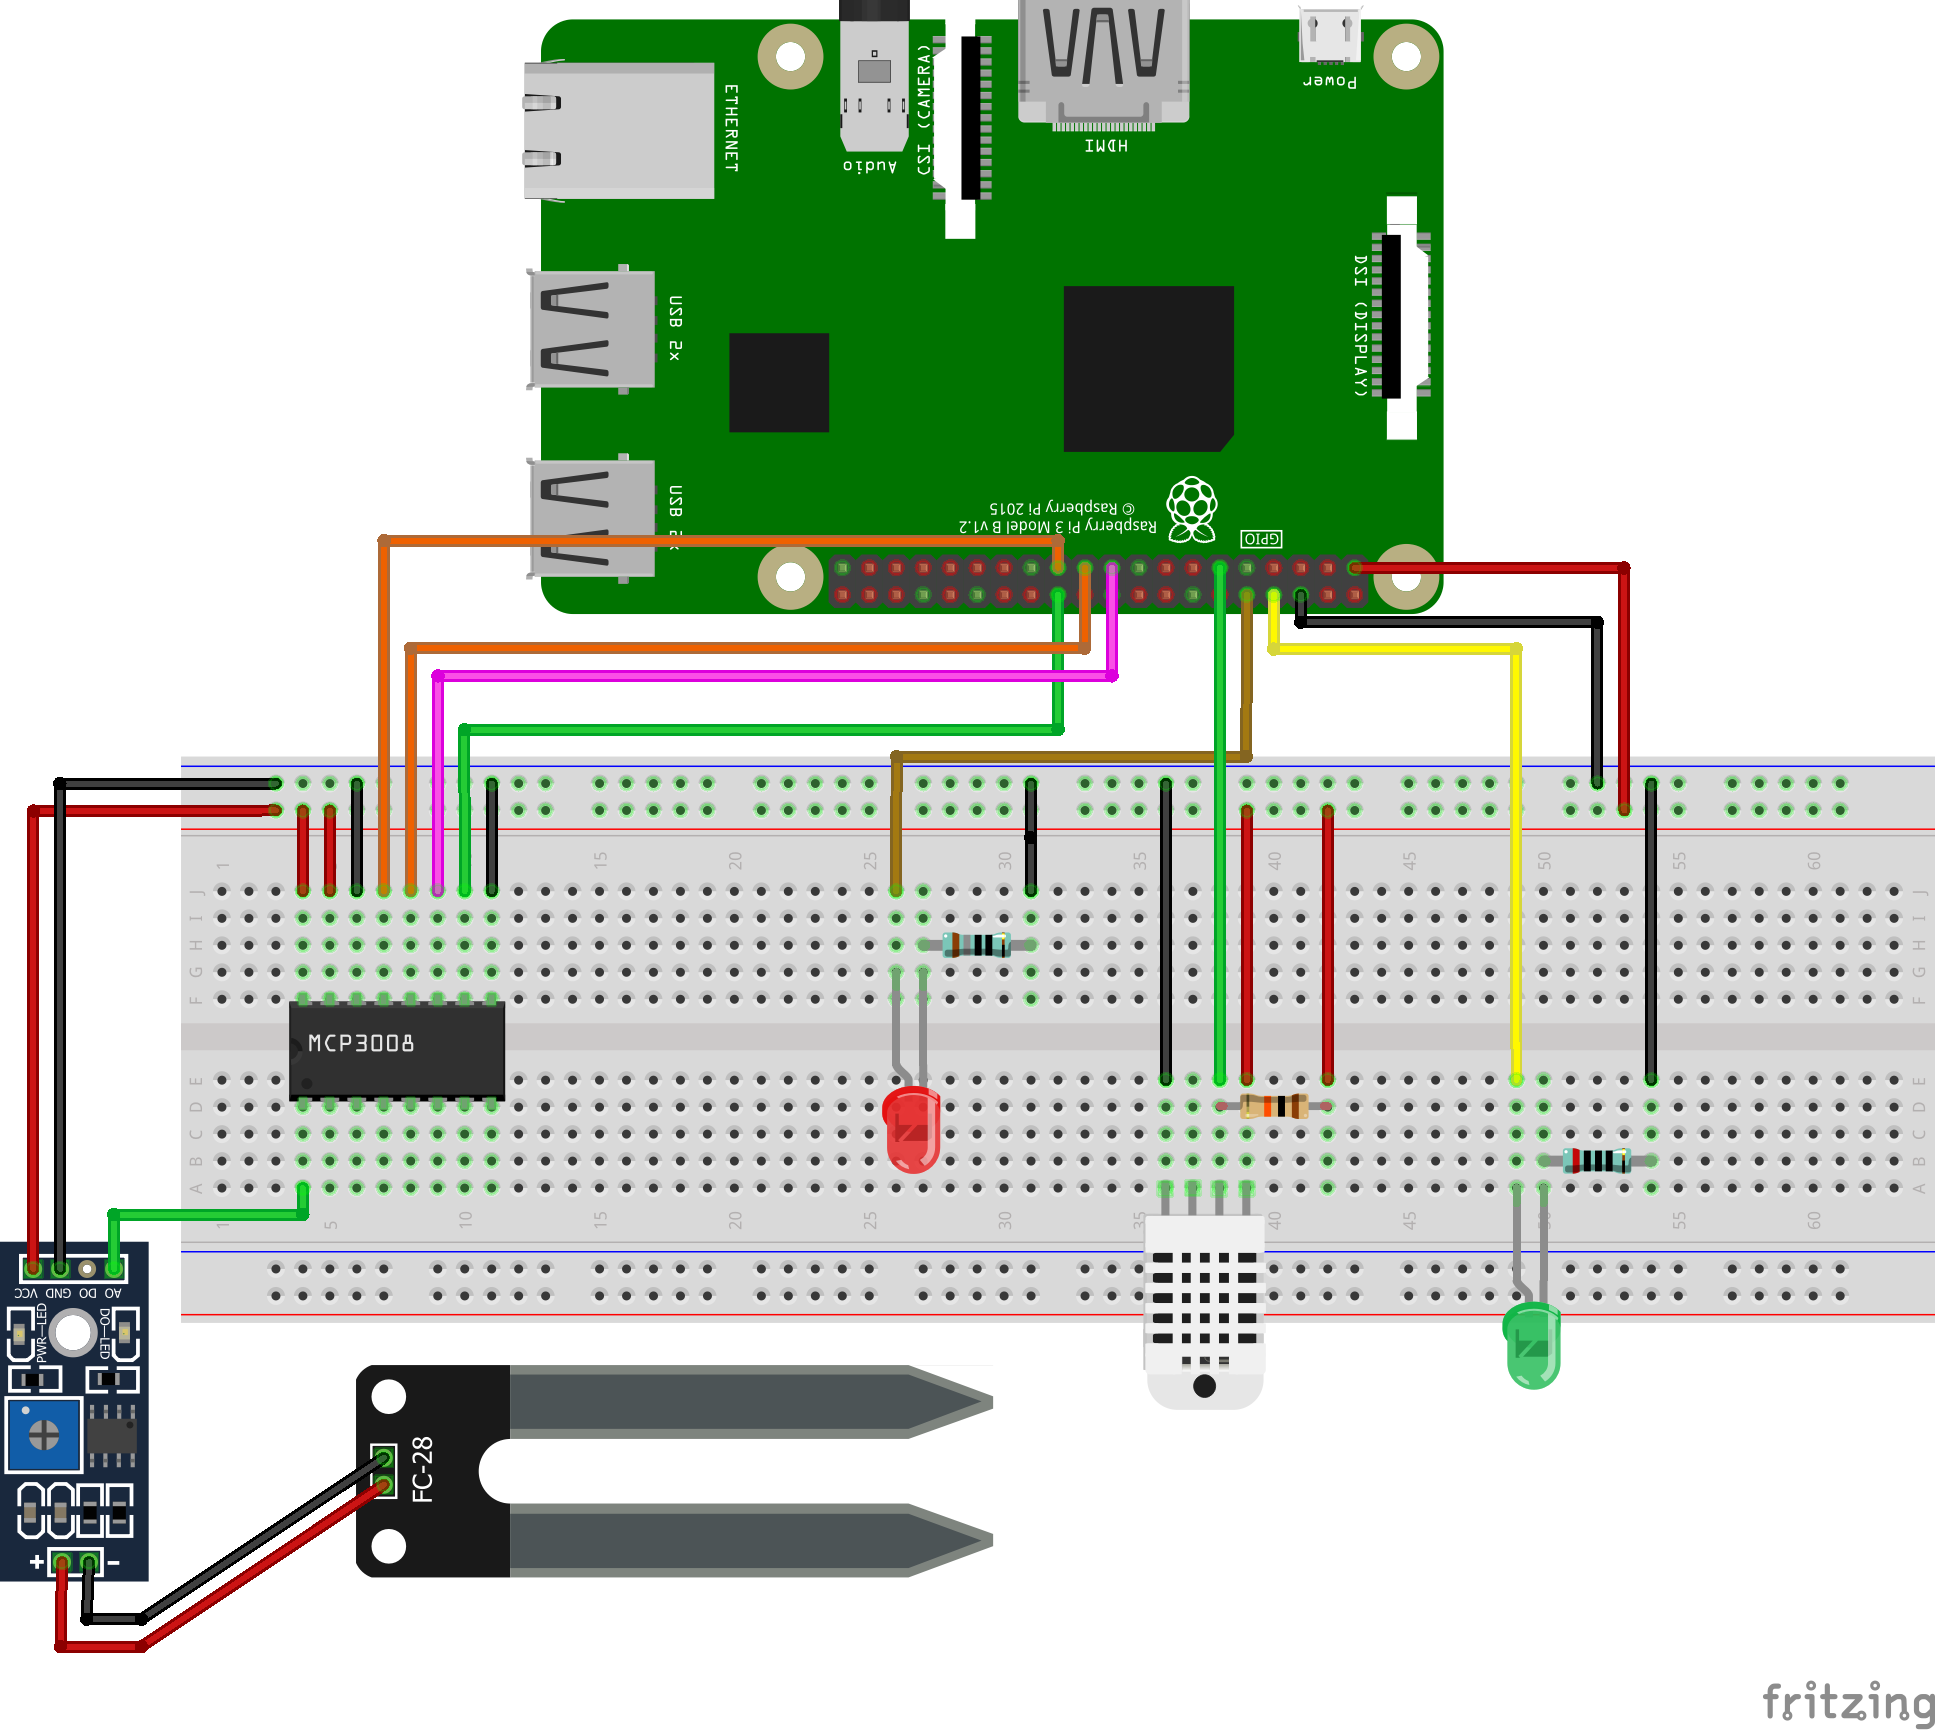
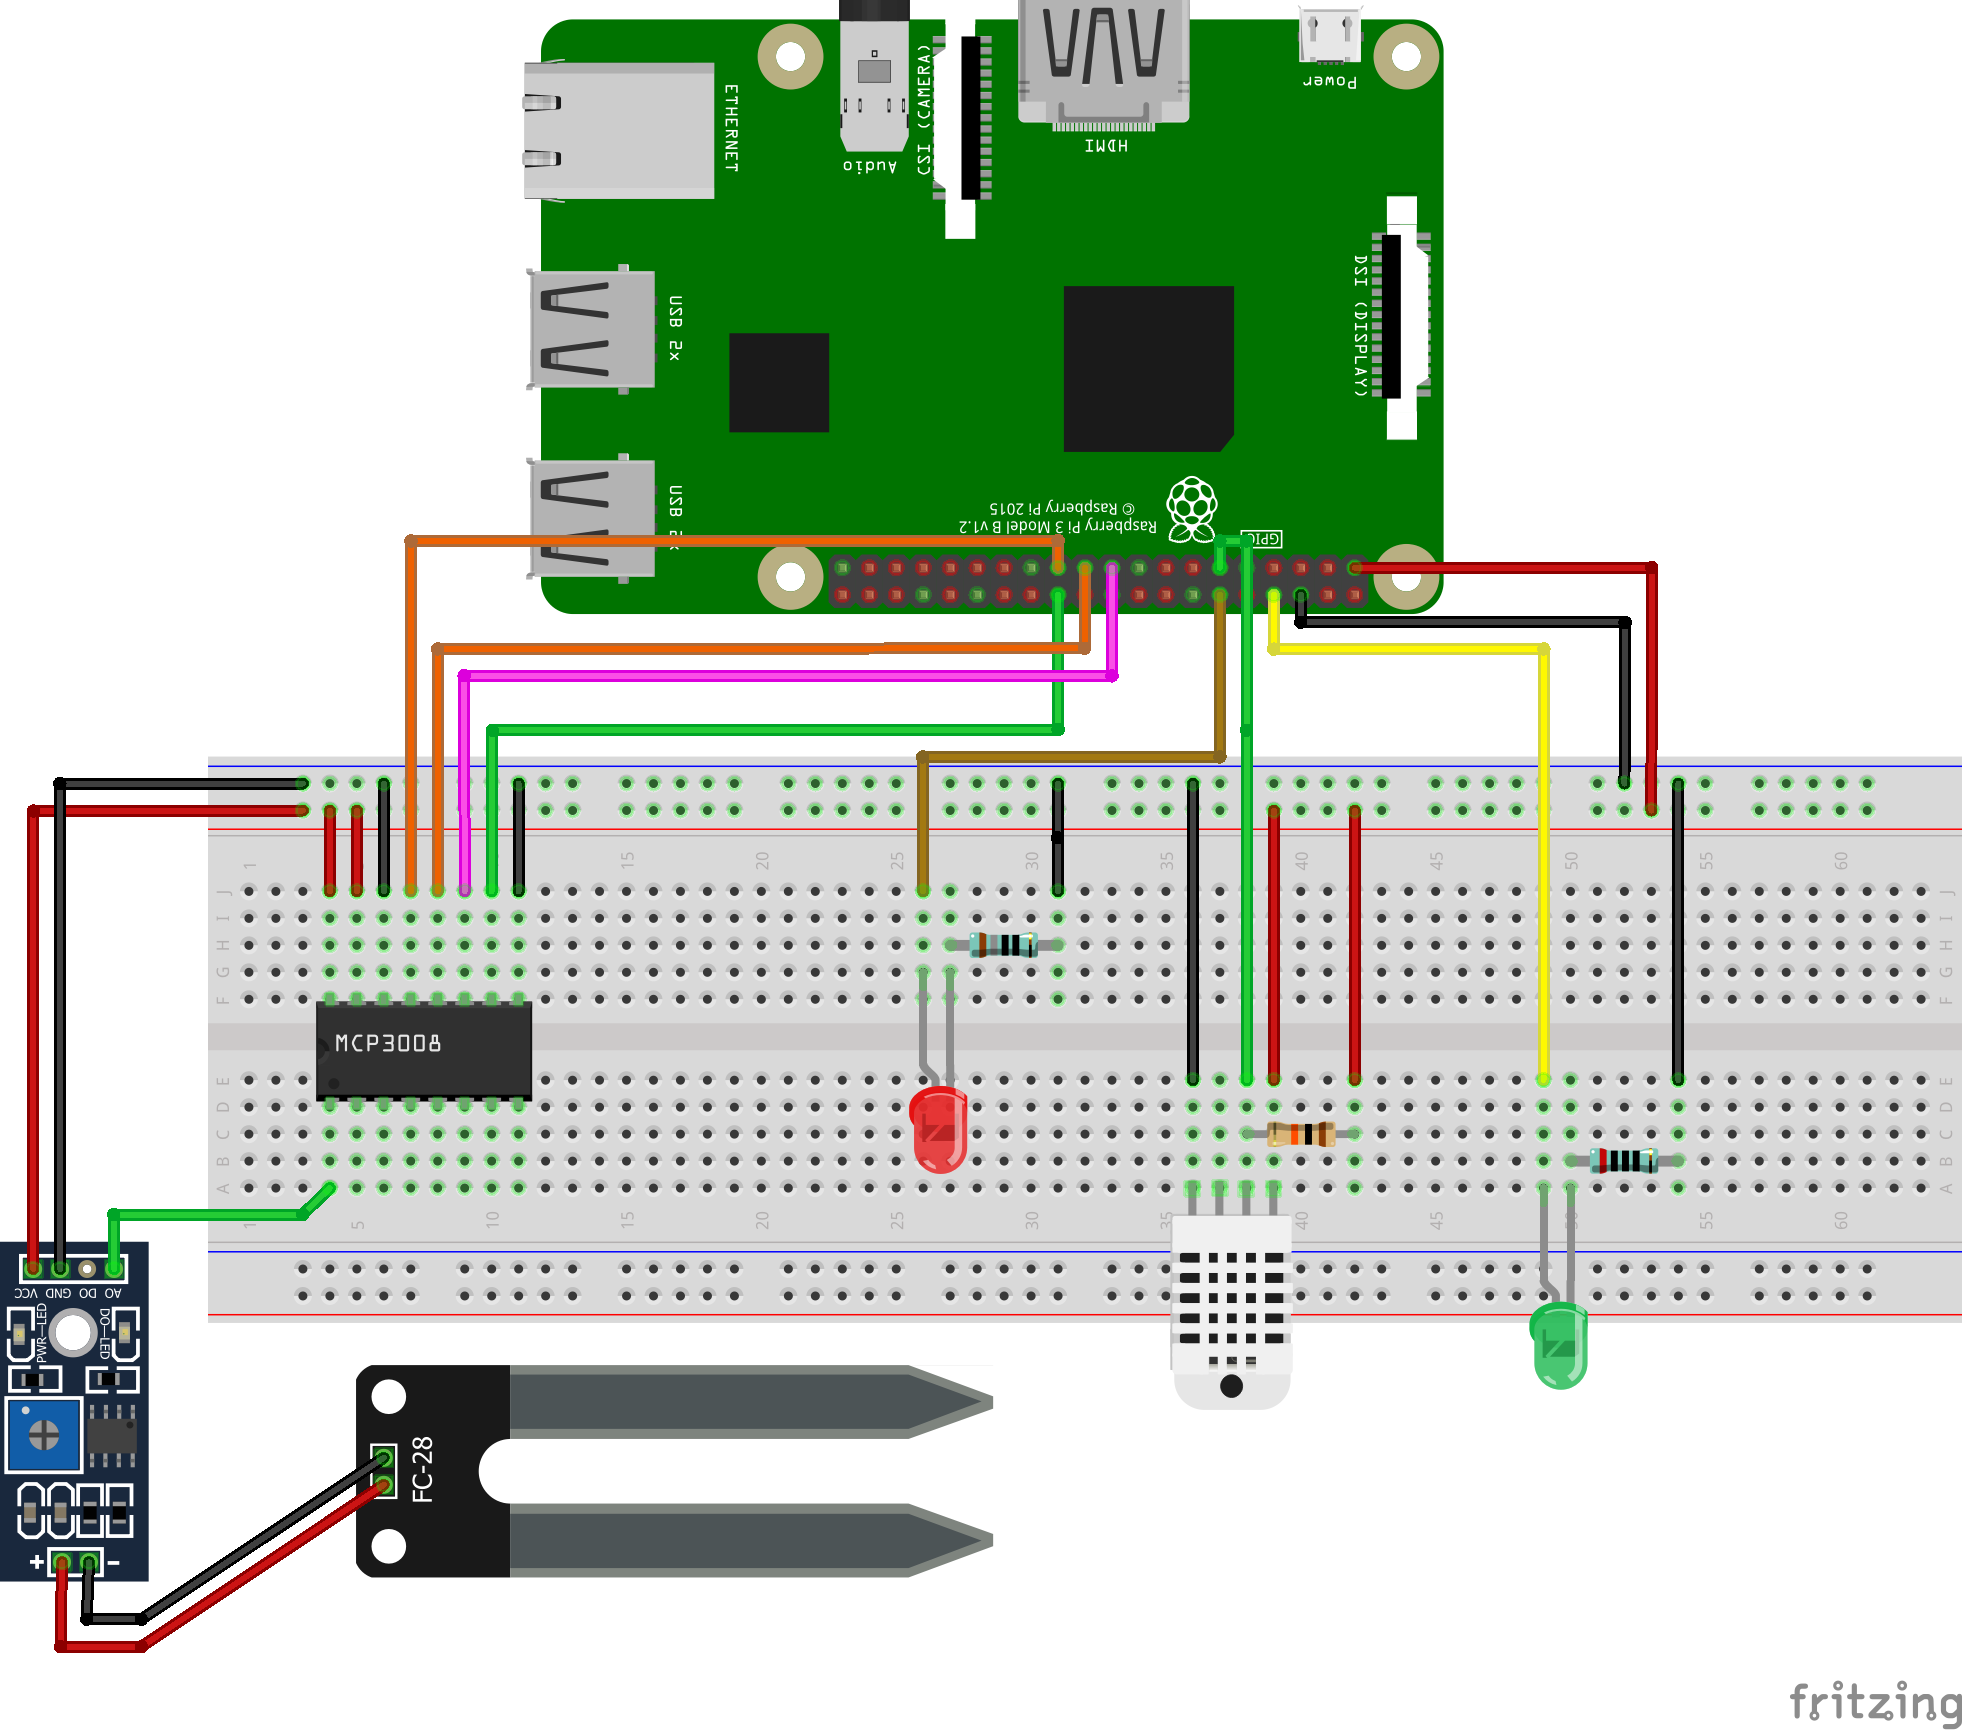
update boards with new pin

diff --git a/README.md b/README.md
@@ -16,7 +16,7 @@ https://github.com/ytsworld/greenhouse-receiver
 - IC MCP3008 analog/digital converter
 - LED
 - 10kΩ resistor (pull up for DHT-22)
-- 200Ω resistor (depends on led)
+- 100Ω - 200Ω resistor (depends on led color)
 
 ![Breadboard diagram](doc/rpi_DHT22_soil_moisture_breadboard.png "Breadboard diagram")
 Raspberry can only read digital input.
